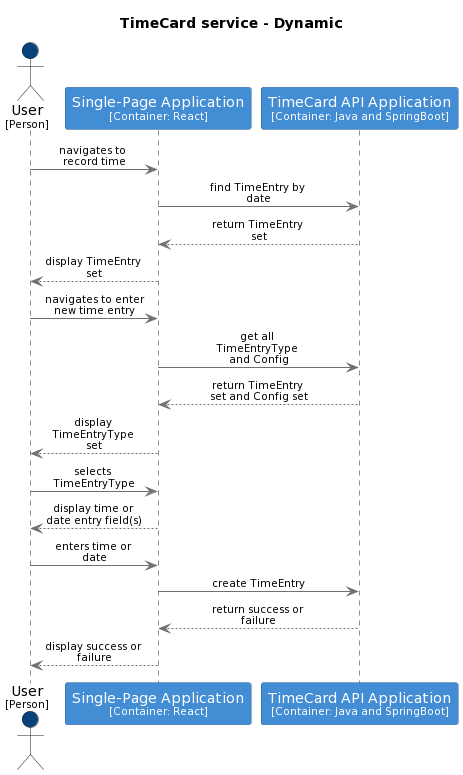
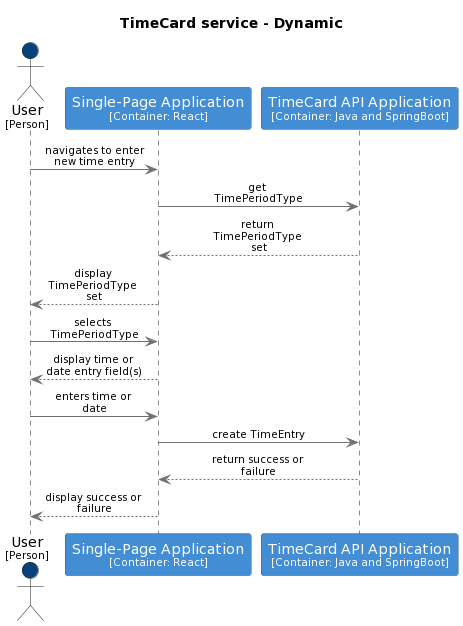
updates following review comments

diff --git a/docs/payload.md b/docs/payload.md
@@ -34,31 +34,38 @@ A note is used to carry arbitrary textual information about a date. Notes are im
 |createdAt|string(date-time)|false|none|Assigned by the TimeCard container when the note is persisted|
 |authorId|number|false|none|The id of the Person who wrote the note's content|
 
-<h2 id="tocS_CodedValue">CodedValue</h2>
+<h2 id="tocS_TimePeriodType">TimePeriodType</h2>
 <!-- backwards compatibility -->
-<a id="schemacodedvalue"></a>
-<a id="schema_CodedValue"></a>
-<a id="tocScodedvalue"></a>
-<a id="tocscodedvalue"></a>
+<a id="schematimeperiodtype"></a>
+<a id="schema_TimePeriodType"></a>
+<a id="tocStimeperiodtype"></a>
+<a id="tocstimeperiodtype"></a>
 
 ```json
 {
-  "code": "string",
-  "namespace": "http://[tenantId].timecard.sas.digital.homeoffice.go.uk",
-  "display": "the value of the code property"
+  "timePeriodTypeId": 0,
+  "name": "string",
+  "valueType": "date"
 }
 
 ```
 
-A CodeValue encapsulates a code
+A way to categorise time periods (e.g. a shift, a standard rest day). Depending on the type of time period the actual time value that should be recorded against that period varies. For example to record a shift time period two data points are needed - a shift start datetime and and a shift end datetime. Contrast this with a standard rest day where only a single date is needed.
 
 ### Properties
 
 |Name|Type|Required|Restrictions|Description|
 |---|---|---|---|---|
-|code|string|true|none|The code itself|
-|namespace|string(uri)|false|none|The optional namespace that the code belongs to. The namespace and code together present a unique identifier for the CodedValue in the context of the TimeCard container|
-|display|string|false|none|The optional human-readable label for the code|
+|timePeriodTypeId|number|false|none|the identifier for this TimePeriodType|
+|name|string|true|none|the display name of this TimePeriodType|
+|valueType|string|true|none|The value that a time period of this type should contain|
+
+#### Enumerated Values
+
+|Property|Value|
+|---|---|
+|valueType|date|
+|valueType|datetime|
 
 <h2 id="tocS_TimeEntry">TimeEntry</h2>
 <!-- backwards compatibility -->
@@ -74,21 +81,19 @@ A CodeValue encapsulates a code
   "ownerId": 0,
   "actualStartTime": "2019-08-24T14:15:22Z",
   "actualEndTime": "2019-08-24T14:15:22Z",
+  "plannedStartTime": "2019-08-24T14:15:22Z",
+  "plannedEndTime": "2019-08-24T14:15:22Z",
+  "shiftType": "string",
   "timePeriodType": {
-    "code": "string",
-    "namespace": "http://[tenantId].timecard.sas.digital.homeoffice.go.uk",
-    "display": "the value of the code property"
-  },
-  "activity": {
-    "code": "string",
-    "namespace": "http://[tenantId].timecard.sas.digital.homeoffice.go.uk",
-    "display": "the value of the code property"
+    "timePeriodTypeId": 0,
+    "name": "string",
+    "valueType": "date"
   }
 }
 
 ```
 
-A TimeEntry carries the time periods during which employees have performed a business activity (e.g. PCP, dog handling etc) or HR activity (e.g. leaves, training etc). TimeEntry is the actual recording of hours done by employees as per their roster. Encapsulates day and time (to the minute).
+A TimeEntry carries the time periods during which employees have performed a business activity (e.g. PCP, dog handling etc) or HR activity (e.g. leaves, training etc). TimeEntry is the actual recording of hours done by employees as per their roster. Encapsulates day and time (to the minute). The TimeEntry also holds the concept of planned time. In this instance the owner of the TimeEntry has been rostered to perform some work in the future at a specified time. Not all TimeEntry owners are subject to their time being planned out therefore the fields related to planned time are optional. It is also possible to create a TimeEntry with just an actualStartTime and to provide the actualEndTime later. However if planned time is provided then both the start and end must be set.
 
 ### Properties
 
@@ -98,7 +103,9 @@ A TimeEntry carries the time periods during which employees have performed a bus
 |version|number|false|none|The version of the TimeEntry as assigned by the TimeCard container. This value changes when the resource is created, updated, or deleted.|
 |ownerId|number|true|none|The id of the Person who owns this TimeEntry i.e. the Person who has performed the activity in the given time period|
 |actualStartTime|string(date-time)|true|none|The start time of the activity that was worked (to the minute)|
-|actualEndTime|string(date-time)|true|none|The end time of the activity that was worked (to the minute)|
-|timePeriodType|[CodedValue](#schemacodedvalue)|true|none|The type of time entry (e.g. a shift, a standard rest day)|
-|activity|[CodedValue](#schemacodedvalue)|true|none|The type of work that has been carried out (e.g PCP)|
+|actualEndTime|string(date-time)|false|none|The end time of the activity that was worked (to the minute)|
+|plannedStartTime|string(date-time)|false|none|The start time of the activity that has been planned (to the minute)|
+|plannedEndTime|string(date-time)|false|none|The end time of the activity that has been planned (to the minute)|
+|shiftType|string|false|none|a descriptor for the shift (eg 'early shift')|
+|timePeriodType|[TimePeriodType](#schematimeperiodtype)|true|none|The type of time entry (e.g. a shift, a standard rest day)|
 
